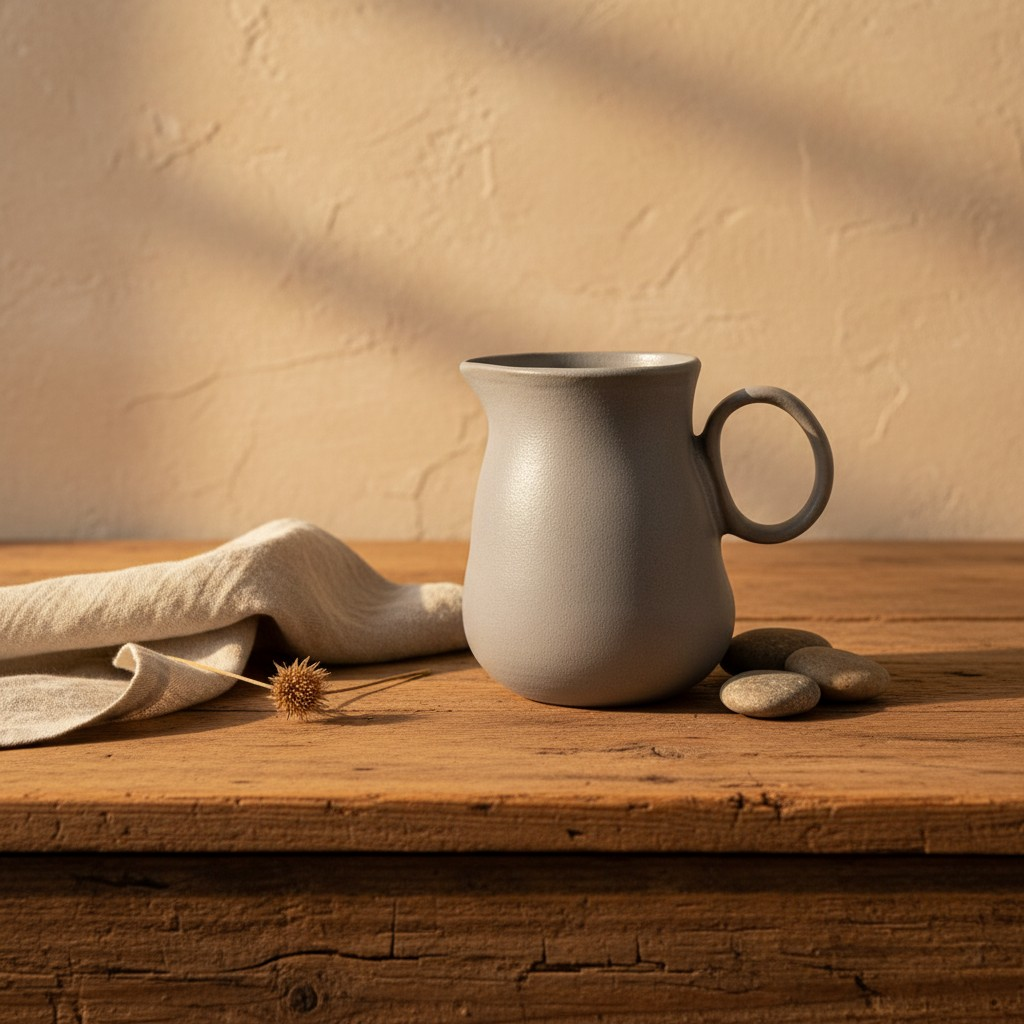
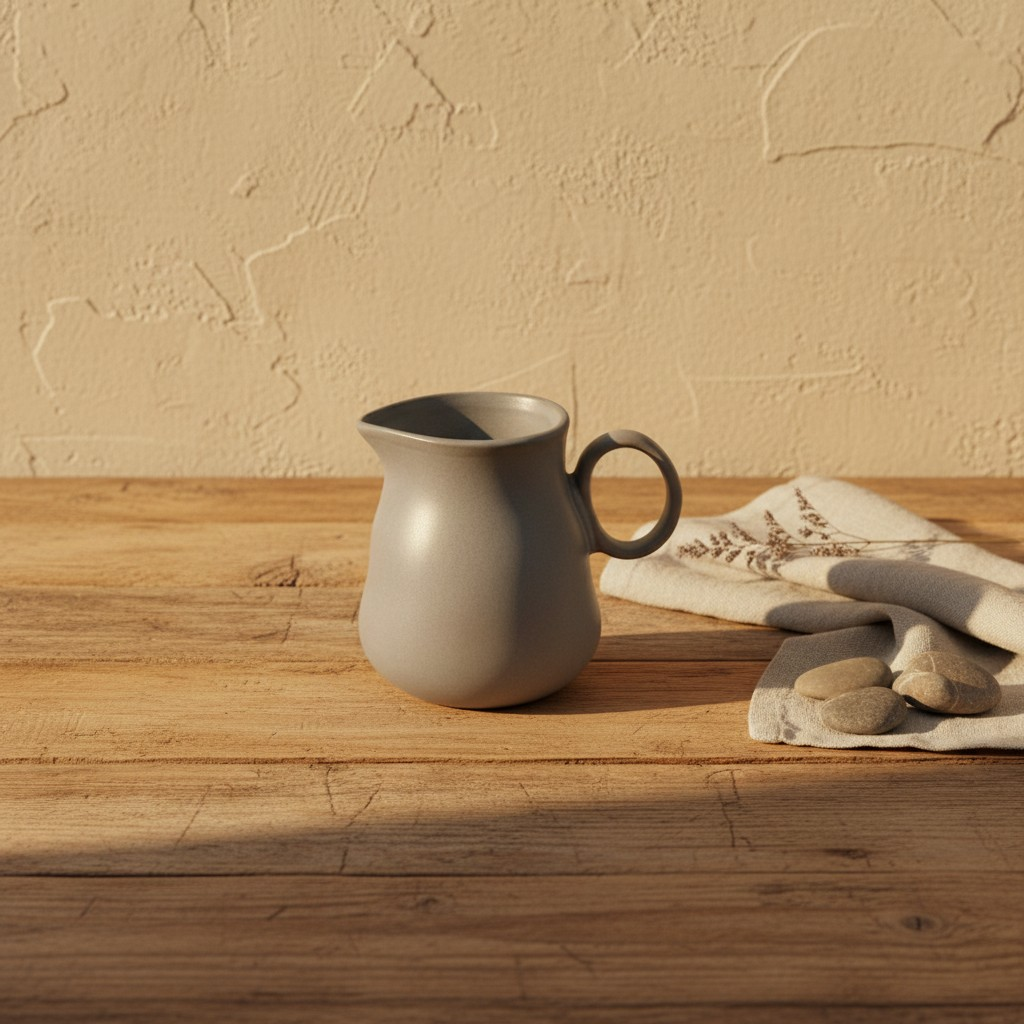
lechera-sorrento: elimina fotos 1,5,6,7,9; old2 como hero; nueva foto al final; precio $16.500

diff --git a/index.html b/index.html
@@ -2080,7 +2080,7 @@ src="https://www.facebook.com/tr?id=1479825037203290&ev=PageView&noscript=1"/></
   <div class="product" id="bowl-sorrento"><img loading="lazy" class="main-photo" src="FOTOS/mishka/bowl-sorrento/5.jpg" alt="Set x6 Bowl Sorrento 680ml"><div class="thumbnails"><img loading="lazy" src="FOTOS/mishka/bowl-sorrento/5.jpg" class="active" onmouseover="changeMain(this)"><img loading="lazy" src="FOTOS/mishka/bowl-sorrento/1.jpg" onmouseover="changeMain(this)"><img loading="lazy" src="FOTOS/mishka/bowl-sorrento/2.jpg" onmouseover="changeMain(this)"><img loading="lazy" src="FOTOS/mishka/bowl-sorrento/3.jpg" onmouseover="changeMain(this)"><img loading="lazy" src="FOTOS/mishka/bowl-sorrento/4.jpg" onmouseover="changeMain(this)"><img loading="lazy" src="FOTOS/mishka/bowl-sorrento/6.jpg" onmouseover="changeMain(this)"></div><div class="product-info"><div class="product-name">Set x6 Bowl Sorrento 680 ml</div><div class="product-desc">Porcelana · Línea Sorrento · Amplio y elegante para pastas, ensaladas o sopas · 680 ml · Set de 6</div><div class="product-price">$108.900</div><span class="product-tag">Mesa & Cocina</span></div></div>
   <div class="product" id="bowl-sorrento-x4"><img loading="lazy" class="main-photo" src="FOTOS/mishka/bowl-sorrento/3.jpg" alt="Set x4 Bowl Sorrento 680ml"><div class="thumbnails"><img loading="lazy" src="FOTOS/mishka/bowl-sorrento/3.jpg" class="active" onmouseover="changeMain(this)"><img loading="lazy" src="FOTOS/mishka/bowl-sorrento/1.jpg" onmouseover="changeMain(this)"><img loading="lazy" src="FOTOS/mishka/bowl-sorrento/2.jpg" onmouseover="changeMain(this)"><img loading="lazy" src="FOTOS/mishka/bowl-sorrento/4.jpg" onmouseover="changeMain(this)"><img loading="lazy" src="FOTOS/mishka/bowl-sorrento/5.jpg" onmouseover="changeMain(this)"><img loading="lazy" src="FOTOS/mishka/bowl-sorrento/6.jpg" onmouseover="changeMain(this)"></div><div class="product-info"><div class="product-name">Set x4 Bowl Sorrento 680 ml</div><div class="product-desc">Porcelana · Línea Sorrento · Amplio y elegante para pastas, ensaladas o sopas · 680 ml · Set de 4</div><div class="product-price">$72.600</div><span class="product-tag">Mesa & Cocina</span></div></div>
   <div class="product" id="azucarera-sorrento"><img loading="lazy" class="main-photo" src="FOTOS/mishka/azucarera-sorrento/1.jpg" alt="Azucarera Sorrento"><div class="thumbnails"><img loading="lazy" src="FOTOS/mishka/azucarera-sorrento/1.jpg" class="active" onmouseover="changeMain(this)"><img loading="lazy" src="FOTOS/mishka/azucarera-sorrento/2.jpg" onmouseover="changeMain(this)"><img loading="lazy" src="FOTOS/mishka/azucarera-sorrento/3.jpg" onmouseover="changeMain(this)"><img loading="lazy" src="FOTOS/mishka/azucarera-sorrento/4.jpg" onmouseover="changeMain(this)"><img loading="lazy" src="FOTOS/mishka/azucarera-sorrento/5.jpg" onmouseover="changeMain(this)"><img loading="lazy" src="FOTOS/mishka/azucarera-sorrento/6.jpg" onmouseover="changeMain(this)"></div><div class="product-info"><div class="product-name">Azucarera Sorrento 10,5×11 cm</div><div class="product-desc">Porcelana · Línea Sorrento · Detalle que completa cualquier mesa · 10,5×11 cm</div><div class="product-price">$17.000</div><span class="product-tag">Mesa & Cocina</span></div></div>
-  <div class="product" id="lechera-sorrento"><img loading="lazy" class="main-photo" src="FOTOS/mishka/lechera-sorrento/1.jpg" alt="Lechera Sorrento 280ml"><div class="thumbnails"><img loading="lazy" src="FOTOS/mishka/lechera-sorrento/1.jpg" class="active" onmouseover="changeMain(this)"><img loading="lazy" src="FOTOS/mishka/lechera-sorrento/2.jpg" onmouseover="changeMain(this)"><img loading="lazy" src="FOTOS/mishka/lechera-sorrento/3.jpg" onmouseover="changeMain(this)"><img loading="lazy" src="FOTOS/mishka/lechera-sorrento/4.jpg" onmouseover="changeMain(this)"><img loading="lazy" src="FOTOS/mishka/lechera-sorrento/5.jpg" onmouseover="changeMain(this)"><img loading="lazy" src="FOTOS/mishka/lechera-sorrento/6.jpg" onmouseover="changeMain(this)"><img loading="lazy" src="FOTOS/mishka/lechera-sorrento/7.jpg" onmouseover="changeMain(this)"><img loading="lazy" src="FOTOS/mishka/lechera-sorrento/8.jpg" onmouseover="changeMain(this)"><img loading="lazy" src="FOTOS/mishka/lechera-sorrento/9.jpg" onmouseover="changeMain(this)"><img loading="lazy" src="FOTOS/mishka/lechera-sorrento/10.jpg" onmouseover="changeMain(this)"></div><div class="product-info"><div class="product-name">Lechera Sorrento 280 ml</div><div class="product-desc">Porcelana · Línea Sorrento · Pequeño detalle de gran impacto en la mesa · 280 ml</div><div class="product-price">$15.499</div><span class="product-tag">Mesa & Cocina</span></div></div>
+  <div class="product" id="lechera-sorrento"><img loading="lazy" class="main-photo" src="FOTOS/mishka/lechera-sorrento/1.jpg" alt="Lechera Sorrento 280ml"><div class="thumbnails"><img loading="lazy" src="FOTOS/mishka/lechera-sorrento/1.jpg" class="active" onmouseover="changeMain(this)"><img loading="lazy" src="FOTOS/mishka/lechera-sorrento/2.jpg" onmouseover="changeMain(this)"><img loading="lazy" src="FOTOS/mishka/lechera-sorrento/3.jpg" onmouseover="changeMain(this)"><img loading="lazy" src="FOTOS/mishka/lechera-sorrento/4.jpg" onmouseover="changeMain(this)"><img loading="lazy" src="FOTOS/mishka/lechera-sorrento/5.jpg" onmouseover="changeMain(this)"><img loading="lazy" src="FOTOS/mishka/lechera-sorrento/6.jpg" onmouseover="changeMain(this)"></div><div class="product-info"><div class="product-name">Lechera Sorrento 280 ml</div><div class="product-desc">Porcelana · Línea Sorrento · Pequeño detalle de gran impacto en la mesa · 280 ml</div><div class="product-price">$16.500</div><span class="product-tag">Mesa & Cocina</span></div></div>
   <div class="product" id="bandeja-sorrento"><img loading="lazy" class="main-photo" src="FOTOS/mishka/bandeja-sorrento/1.jpg" alt="Bandeja Ovalada Sorrento"><div class="thumbnails"><img loading="lazy" src="FOTOS/mishka/bandeja-sorrento/1.jpg" class="active" onmouseover="changeMain(this)"><img loading="lazy" src="FOTOS/mishka/bandeja-sorrento/2.jpg" onmouseover="changeMain(this)"><img loading="lazy" src="FOTOS/mishka/bandeja-sorrento/3.jpg" onmouseover="changeMain(this)"><img loading="lazy" src="FOTOS/mishka/bandeja-sorrento/4.jpg" onmouseover="changeMain(this)"><img loading="lazy" src="FOTOS/mishka/bandeja-sorrento/5.jpg" onmouseover="changeMain(this)"><img loading="lazy" src="FOTOS/mishka/bandeja-sorrento/6.jpg" onmouseover="changeMain(this)"></div><div class="product-info"><div class="product-name">Bandeja Ovalada Sorrento 30×14,5 cm</div><div class="product-desc">Porcelana · Línea Sorrento · Para servir con estilo · 30×14,5 cm</div><div class="product-price">$35.999</div><span class="product-tag">Mesa & Cocina</span></div></div>
   <div class="product" id="bowl-sundara-rectangular"><img loading="lazy" class="main-photo" src="FOTOS/mishka/bowl-sundara-rectangular/1.jpg" alt="Bowl Rectangular Sundara 700ml"><div class="thumbnails"><img loading="lazy" src="FOTOS/mishka/bowl-sundara-rectangular/1.jpg" class="active" onmouseover="changeMain(this)"><img loading="lazy" src="FOTOS/mishka/bowl-sundara-rectangular/2.jpg" onmouseover="changeMain(this)"><img loading="lazy" src="FOTOS/mishka/bowl-sundara-rectangular/3.jpg" onmouseover="changeMain(this)"><img loading="lazy" src="FOTOS/mishka/bowl-sundara-rectangular/4.jpg" onmouseover="changeMain(this)"><img loading="lazy" src="FOTOS/mishka/bowl-sundara-rectangular/5.jpg" onmouseover="changeMain(this)"><img loading="lazy" src="FOTOS/mishka/bowl-sundara-rectangular/6.jpg" onmouseover="changeMain(this)"></div><div class="product-info"><div class="product-name">Bowl Rectangular Sundara 700 ml</div><div class="product-desc">Diseño orgánico y artesanal · Ideal para presentaciones en la mesa · 700 ml</div><div class="product-price">$45.999</div><span class="product-tag">Mesa & Cocina</span></div></div>
   <div class="product" id="bowl-sundara-redondo"><img loading="lazy" class="main-photo" src="FOTOS/mishka/bowl-sundara-redondo/1.jpg" alt="Bowl Redondo Sundara 1000ml"><div class="thumbnails"><img loading="lazy" src="FOTOS/mishka/bowl-sundara-redondo/1.jpg" class="active" onmouseover="changeMain(this)"><img loading="lazy" src="FOTOS/mishka/bowl-sundara-redondo/2.jpg" onmouseover="changeMain(this)"><img loading="lazy" src="FOTOS/mishka/bowl-sundara-redondo/3.jpg" onmouseover="changeMain(this)"><img loading="lazy" src="FOTOS/mishka/bowl-sundara-redondo/4.jpg" onmouseover="changeMain(this)"><img loading="lazy" src="FOTOS/mishka/bowl-sundara-redondo/5.jpg" onmouseover="changeMain(this)"><img loading="lazy" src="FOTOS/mishka/bowl-sundara-redondo/6.jpg" onmouseover="changeMain(this)"><img loading="lazy" src="FOTOS/mishka/bowl-sundara-redondo/7.jpg" onmouseover="changeMain(this)"></div><div class="product-info"><div class="product-name">Bowl Redondo Sundara 1000 ml</div><div class="product-desc">Forma orgánica generosa · Para pastas, ensaladas y servicio en mesa · 1000 ml</div><div class="product-price">$47.999</div><span class="product-tag">Mesa & Cocina</span></div></div>
